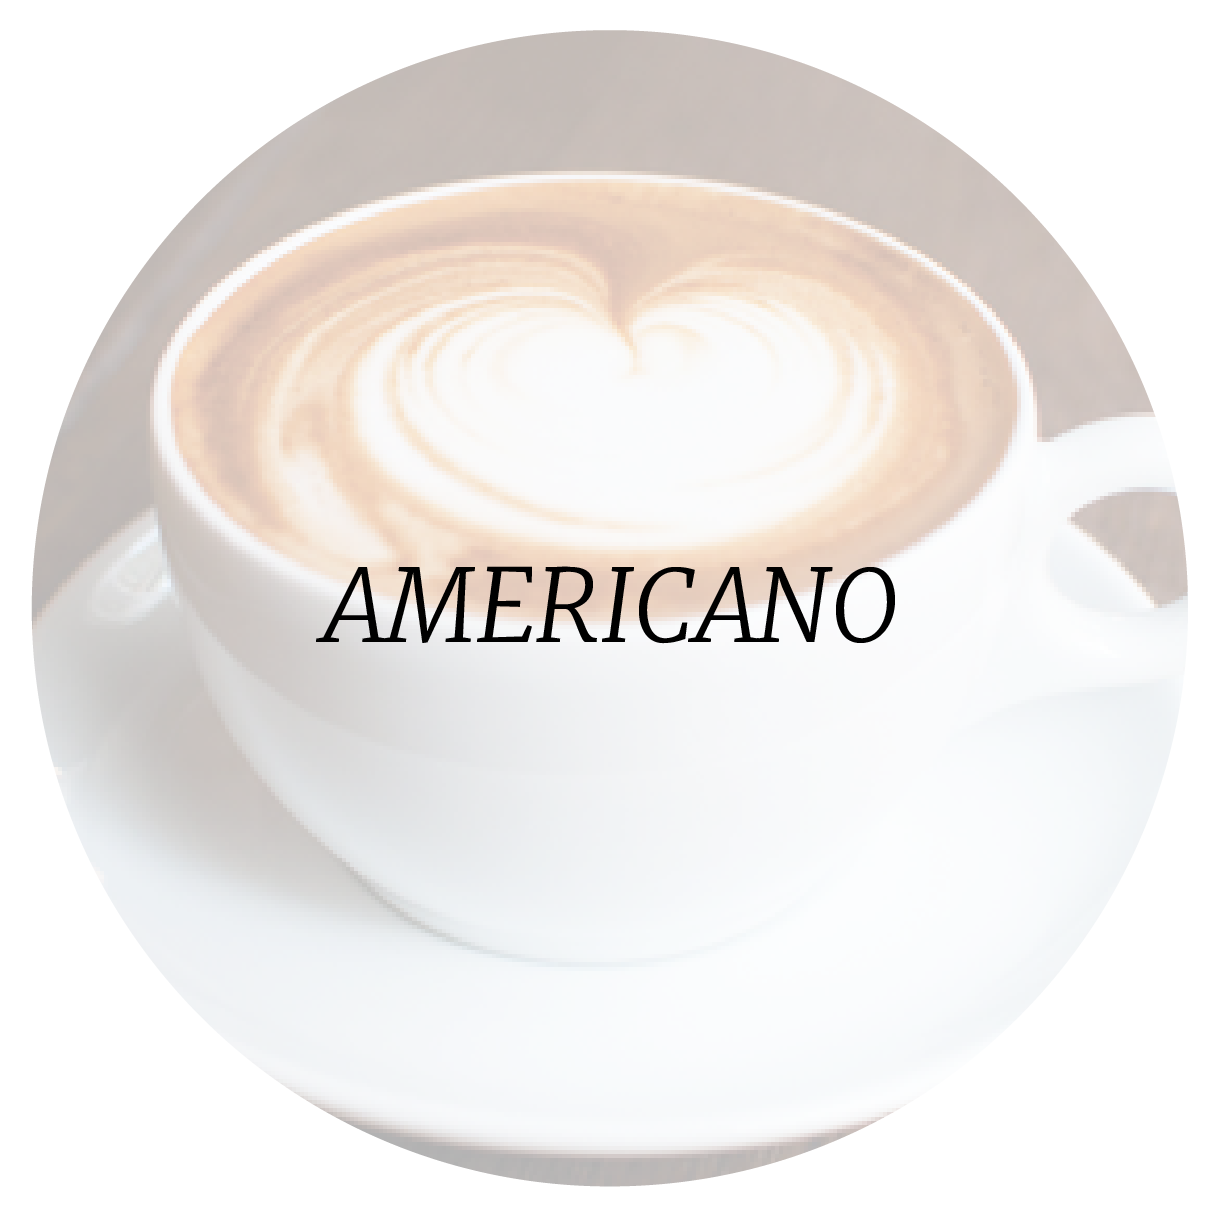
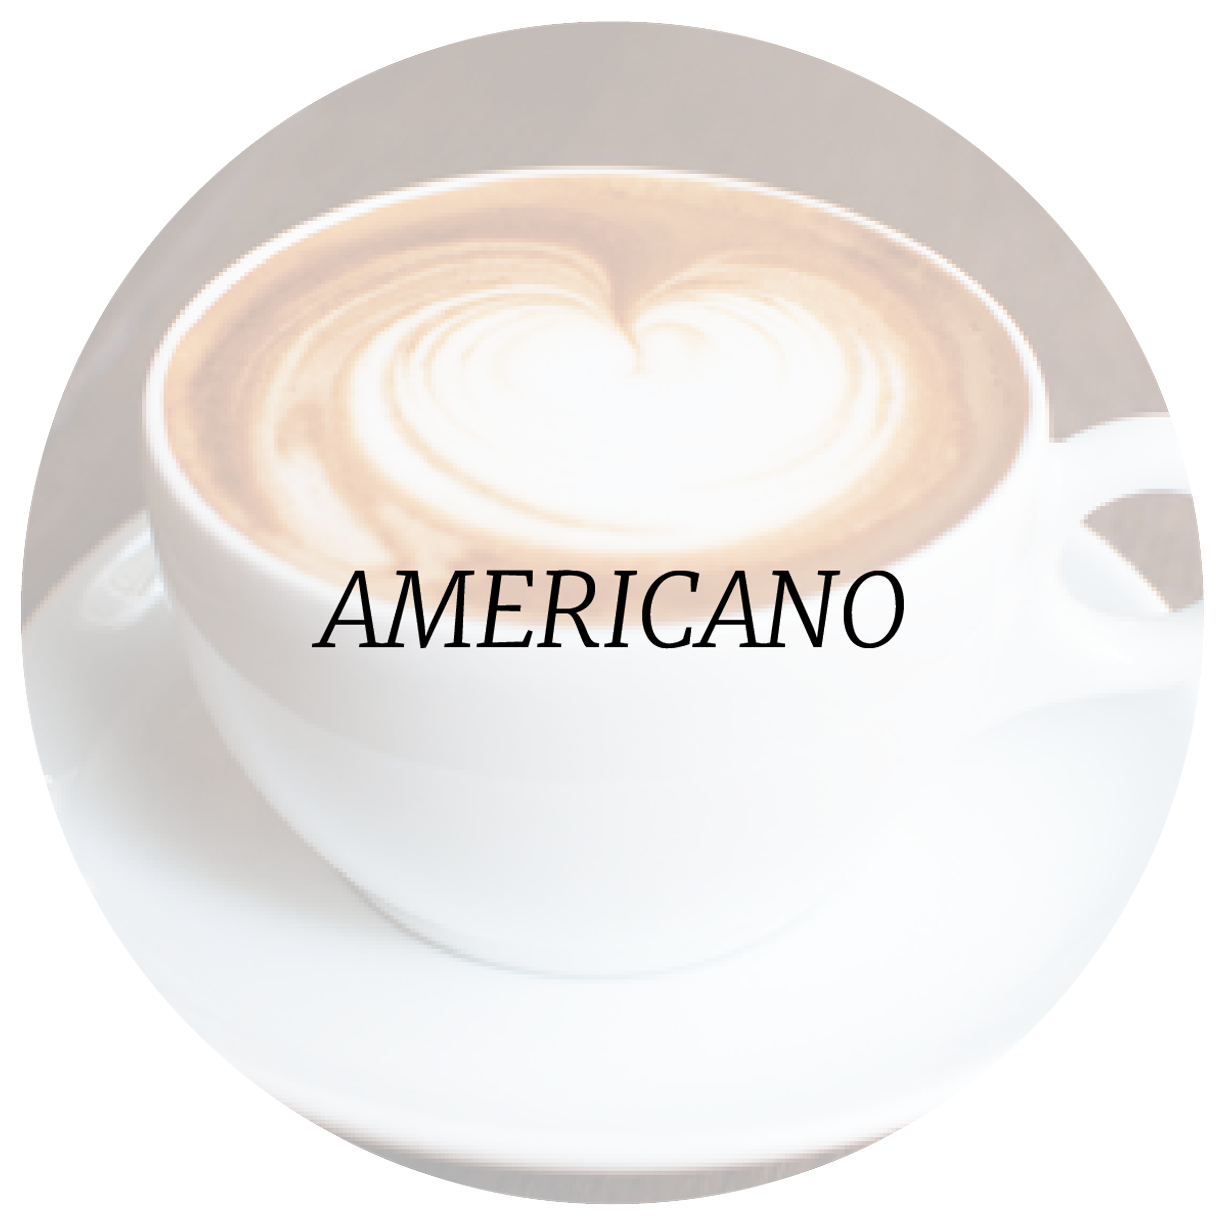
finishing

diff --git a/css/style.css b/css/style.css
@@ -118,11 +118,22 @@ h2 {
 }
 .cville-map img{
 	padding: 40px;
-	width: 100%;
+	width: 90%;
 	opacity: .9;
 	
 }
 
+.cville-map a:hover {
+	opacity: .4;
+}
+
+.cville-map img:hover{
+	
+	opacity: .6;
+}
+.mobile-map {
+	display: none;
+}	
 
 /* Cofee Page */
 
@@ -220,6 +231,7 @@ h2 {
 	min-height: 300px;
 
 	width: 100%;
+	margin-bottom: -5px;
 
 }
 
@@ -271,23 +283,7 @@ h2 {
 	font-style: italic;
 }
 
-.link-to-top {
-	padding: 0 auto 20px auto;
-}	
 
-.link-to-top a{
-	color: white;
-	text-decoration: none;
-	
-	padding: 10px;
-	display: block;
-	font-family: 'Open Sans', sans-serif;
-	font-weight: 300;
-	font-size: 20px;
-	font-style: italic;
-	text-align: center;
-
-}
 
 /* Footer */
 
@@ -316,6 +312,32 @@ h2 {
 .dayoftheweek {
 	font-weight: 700;
 }
+
+.link-to-top {
+
+	text-align: right;
+	padding-bottom: 40px;
+}
+
+.link-to-top a{
+	color: white;
+	text-decoration: none;
+	background-color: black;
+	padding: 10px 24px; 
+	margin: 20px;
+	font-family: 'Open Sans', sans-serif;
+	font-weight: 300;
+	font-size: 30px;
+
+	text-align: center;
+
+}
+
+.link-to-top a:hover {
+	
+	color: #DAACA1;
+}
+
 
 .mobile-nav {
 	display:none;
@@ -388,6 +410,28 @@ padding: 10px;
 	.map {
 		display: none;
 	}
+
+	.mobile-map {
+		display: block;
+		text-align: center;
+		text-decoration: none;
+		font-family: 'Open Sans', sans-serif;
+		font-size: 1.25em;
+		color: white;
+		width: 24%;
+		background-color: black;
+		font-style: italic;
+		padding: 20px 40px;
+		margin: 10px auto;
+	} 
+
+	.mobile-map:hover {
+		color: #DAACA1;
+	}
+
+
+
+
 
 	.coffee-img {
 		width: 50%;

diff --git a/index.html b/index.html
@@ -81,6 +81,8 @@
 
 	<p>At C’ville Coffee you will find friendly, cheerful service, carefully prepared food that isn’t fussy and the space to enjoy it all.</p>
 
+	<a class="mobile-map" href="https://www.google.com/maps/place/C'Ville+Coffee/@38.040886,-78.477498,15z/data=!4m2!3m1!1s0x0:0x108bd481dcb0dd86"> MAP </a>
+
 	</div>
 
 	<div class="map">
@@ -239,9 +241,11 @@
 		<span class="dayoftheweek">Sunday</span> 9:30 AM - 7 PM</p>
 	</div>
 
+
 <div class="link-to-top">
-	<a href="#landing-page">BACK TO TOP </a>
+	<a href="#landing-page">^</a>
 </div>
+
 
 </footer>
 
